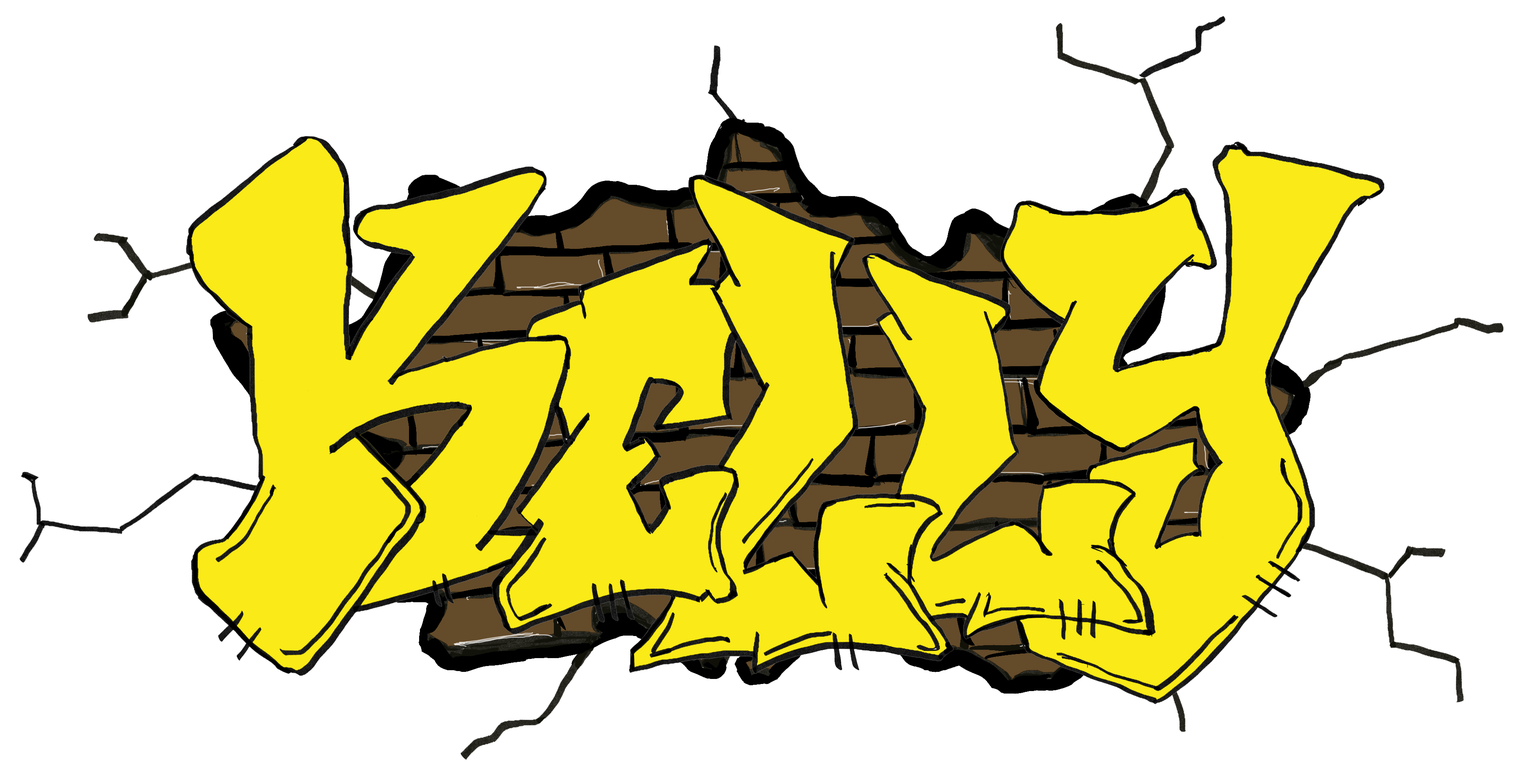
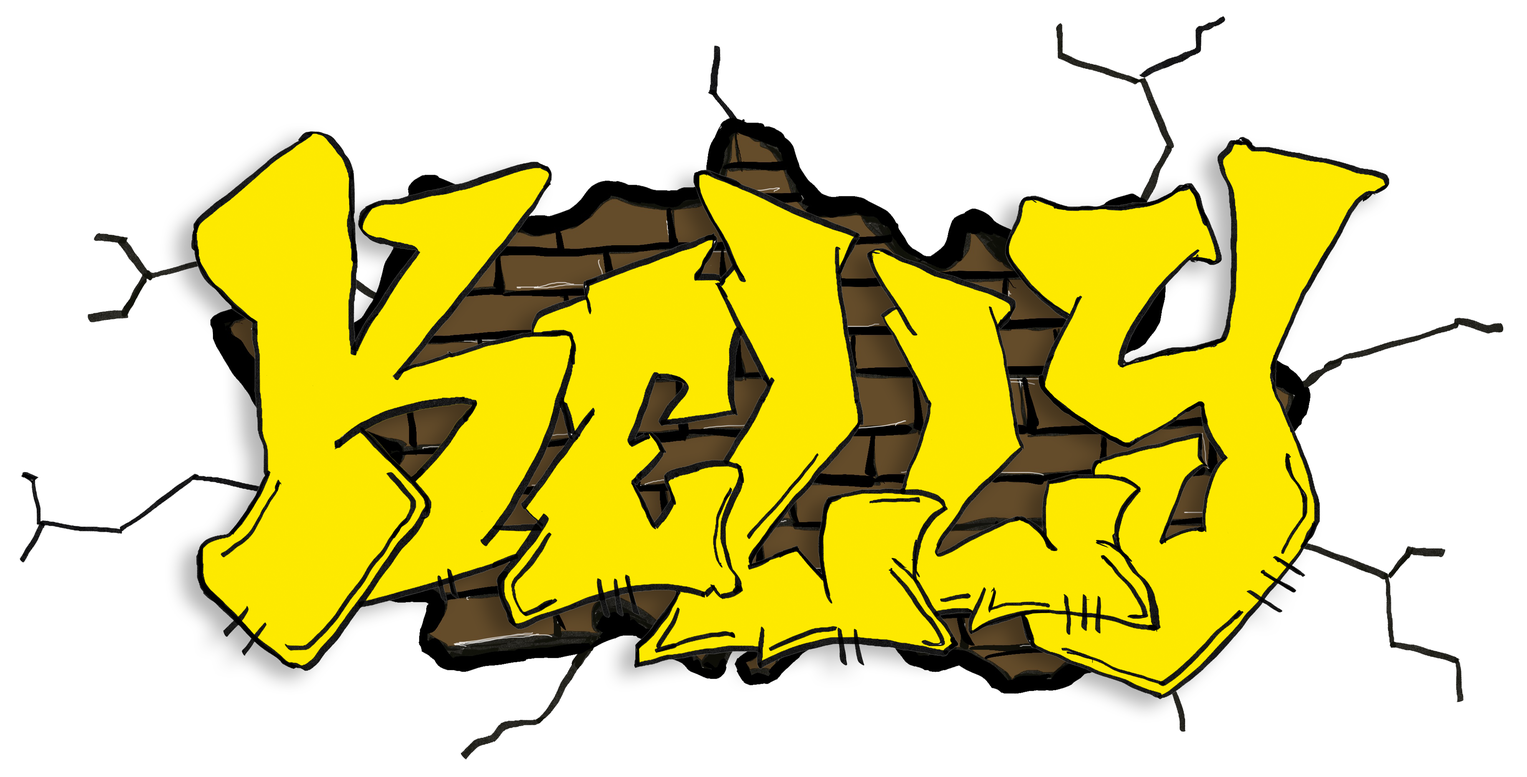
update to grafiti image. back to png for transparent bkgrd for exploding effect.

diff --git a/css/style.css b/css/style.css
@@ -1,1 +1,1 @@
-.main-content-container{display:flex;flex-direction:column;width:100vw;height:100vh;margin:0 auto}html,body{background:url(../img/Brickwall_bkgd.jpg);width:100vw;height:100vh;font-size:62.5%;font-family:Arial,Helvetica,sans-serif;margin:0px}*{padding:0;margin:0}*{padding:0;margin:0;box-sizing:border-box}input{font-size:100%}.centered{text-align:center}.main-content-container{display:flex;flex-direction:column;width:100vw;height:100vh;margin:0 auto}.nav-bar{display:flex;flex-direction:row;justify-content:center;position:fixed;z-index:1;width:100%;background-color:#000;padding:15px}.nav-items{display:inline-flex;flex-direction:row;justify-content:center;align-items:center}a{font-size:30px;text-decoration:none;color:#fff;width:300px;cursor:pointer}.nav-items .resume{color:#000;background-color:gold;text-align:center;padding:10px;width:15%;border-radius:5px}.nav-items a:hover{color:gold}.nav-items .resume:hover{color:#000}.nav-bar img{position:absolute;left:20px;top:5px;width:6%}@keyframes turn-icon-animation{0%{transform:scale(1)}25%{transform:scale(1.4)}100%{transform:scale(1)}}.blue-drip{animation:.6s ease-in-out turn-icon-animation}.hamburger{display:none}.closebtn{display:none}.sub-nav-content{display:none}.nav-items .mobile-projects{display:none}.hero{display:flex;flex-direction:row;justify-content:center}.left-content-container{display:flex;flex-direction:column;justify-content:center;width:80%}.intro{display:flex;flex-direction:row;justify-content:center}h1{margin-top:130px;font-size:40px;font-weight:bold;text-indent:50px}.kelly-graffiti-name-container{display:flex;justify-content:center}.kelly-graffiti-name-container img{width:85%}.job-description{display:flex;flex-direction:row;justify-content:center}@keyframes typing{from{width:0;color:blue}}.job-description h2{animation:typing 1.5s steps(51, end),blink-caret 12s step-end infinite alternate;overflow:hidden;width:46ch;white-space:nowrap}.animate{opacity:1;transform:translateX(0)}h2{font-size:40px;font-weight:bold;text-align:center;padding:40px}.right-content-container{background:url(../img/Kelly_Face_Img.jpg);background-repeat:no-repeat;background-size:contain;display:flex;flex-direction:column-reverse;width:20%;margin-top:30px}.job-notification-indicator{display:flex;flex-direction:row;justify-content:space-evenly;margin-bottom:0px;background-color:#000;padding:15px 15px 15px 15px}.indicator-light{padding:8px 8px;border-radius:50%;background-color:#7fff00;margin-bottom:25px;border:1px solid #000}#blink{animation:blink-animation 1s steps(2, start) infinite}@keyframes blink-animation{to{visibility:hidden}}h6{color:#fff;font-size:15px;margin-bottom:25px}#blink{opacity:1}.tablet-view{display:none}.kelly-face-img img{width:100%}.side-right-brick{display:none}.about-me-container{display:flex;flex-direction:column;justify-content:center;padding:80px}.about-me-title img{width:50%}.about-me p{font-size:30px;margin-bottom:2rem;background-color:#fff}.blog{color:blue;text-decoration:underline;font-size:30px;font-weight:bold}.fitness{display:flex;justify-content:flex-start;margin-bottom:20px;margin-top:50px}.frontend{display:flex;justify-content:flex-end;margin-top:20px}.scroll{opacity:0;transition:all .5s;transform:translateX(-100%)}.show{opacity:1;transform:translateX(0)}.side-left-brick{display:flex;flex-direction:row;justify-content:flex-start}.side-left-brick img{margin-top:-150px;margin-bottom:-100px;width:22%}.carousel-container-content{display:flex;flex-direction:column;width:100vw;height:100vh}.projects{display:flex;flex-direction:row;justify-content:center;margin:100px}h4{font-size:25px;text-align:center}.projects img{width:35%}.carousel-container{display:flex;flex-direction:row;align-self:center;scroll-snap-type:x proximity;scroll-behavior:smooth;width:2000px;margin-bottom:50px;overflow-x:scroll}.carousel{display:flex;flex-direction:row;justify-content:center}.carousel-column{display:none}.main-slide{display:flex;justify-content:center;align-items:center;scroll-snap-align:start;flex-shrink:0;width:245px;height:500px;background:#000;border:3px solid #000}.main-slide img{height:100%}.slide-show{display:flex;flex-direction:column;justify-content:flex-start}.slide-show h1{font-size:25px;text-align:center;text-indent:0}.slide-show p{font-size:15px;text-align:justify;padding:35px}.slide-show a{text-align:center}.cta-btn-case-study{color:#fff;background-color:#000;font-size:20px;font-weight:bold;padding:10px 25px 10px 25px}.arrow{display:flex;flex-direction:row;justify-content:center;align-items:center}.right-arrow{display:flex;flex-direction:row;justify-content:center;margin:0}.right-arrow img{width:30%;height:40%;cursor:pointer}.left-arrow{display:flex;flex-direction:row;justify-content:center}.left-arrow img{width:30%;height:40%;cursor:pointer}.indicator{display:flex;flex-direction:row;justify-content:center;align-content:flex-end;cursor:pointer}.btn img{height:25px;width:25px;margin:4px;transition:.3s}.indicator .btn:hover{background:gold}.inquiry-page-container{display:flex;flex-direction:column;align-items:center}.input-boxes{display:flex;flex-direction:column;justify-content:center;align-items:center}.contact{display:flex;flex-direction:row;justify-content:center;margin:100px}.contact img{width:35%;margin-top:50px}input{display:flex;flex-direction:column;justify-content:center;font-size:15px;padding:20px 20px 20px 20px;margin:15px 0px;border:1px solid #000;width:40rem;background-color:#fafad2}input[type=message]{padding:20px 20px 180px 20px}input[type=submit]{display:flex;flex-direction:row;justify-content:center;padding:20px 20px 20px 20px;color:#fff;background-color:#000;font-size:30px;font-weight:bold;text-align:center;margin-top:50px;margin-bottom:50px}.right-brick{display:flex;flex-direction:row;justify-content:flex-end}.right-brick img{margin-top:-300px;width:20%}footer{display:flex;flex-direction:row;justify-content:center;background-color:#000;padding:20px}.social-media-icons a{display:flex;flex-direction:row;justify-content:center}.social-media-icons a img{width:40px}@media(min-width: 1552px){.nav-bar{display:flex;flex-direction:row;justify-content:center;position:fixed;z-index:1;width:100%;background-color:#000;padding:15px}.nav-items{display:inline-flex;flex-direction:row;align-items:center}a{font-size:30px;text-decoration:none;color:#fff;width:300px;cursor:pointer}.nav-items .resume{color:#000;background-color:gold;text-align:center;padding:10px;width:15%;margin-left:100px;border-radius:5px}.nav-items a:hover{color:gold}.nav-bar img{width:6%}.dropdown .dropbtn{font-size:40px;margin-top:50px}.dropbtn>i{display:none}.dropdown .dropdown-content>a{display:none}h2{font-size:55px}.right-content-container{background-color:#000}.fitness{margin-top:100px}.carousel-container{scroll-snap-type:x mandatory;width:1400px}.slide-show p{font-size:15px;padding:35px;text-align:justify}.contact img{margin-top:50px}input[type=submit]{margin-bottom:150px}.right-brick{display:flex;flex-direction:row;justify-content:flex-end}.right-brick img{width:12%}}@media(min-width: 1025px)and (max-width: 1366px){.nav-items{display:inline-flex;flex-direction:row;justify-content:space-around;align-items:center}a{width:235px}.nav-items .resume{width:16%}.nav-bar img{width:8%}.right-content-container{margin-top:30px}.indicator-light{padding:8px 8px;border-radius:50%;background-color:#7fff00;margin-bottom:25px}h1{margin-top:130px;font-size:25px}h2{font-size:25px;font-weight:bold;text-align:center}.job-description h2{animation:typing 1.5s steps(51, end),blink-caret 12s step-end infinite alternate;overflow:hidden;width:48ch;white-space:nowrap}.kelly-face-img img{margin-top:50px;width:100%;height:auto}.face-overlay{position:absolute;top:0;bottom:0;height:auto;opacity:0;transition:opacity .5s ease}.carousel-container{scroll-snap-type:x mandatory;width:2450px}}@media screen and (max-width: 1024px){.hero{display:flex;flex-direction:column;justify-content:center}.nav-bar{justify-content:space-between;padding:24px}.nav-bar img{width:12%}.nav-items{display:flex;flex-direction:column;align-items:center;margin-top:60px}.nav-items a{text-align:center;font-size:40px;margin-top:50px}.nav-items .resume{color:#000;background-color:gold;text-align:center;padding:10px;width:20%;border-radius:5px}.hamburger{display:flex;flex-direction:column}.bar{width:64px;height:6px;background-color:#fff;margin:6px 0}.menu-overlay{height:100%;width:0;position:fixed;top:0;right:0;background-color:rgba(0,0,0,.9019607843);overflow-x:hidden;transition:.5s;z-index:1}.closebtn{display:flex;flex-direction:column;justify-content:flex-start;position:absolute;color:#fff;font-size:50px;top:0;right:50px;margin-top:3rem}.sub-nav-content{display:flex;flex-direction:column;justify-content:center;margin-top:-1rem}.sub-nav-content a{margin-top:2rem;text-align:center;font-size:25px;color:gold}.dropdown .dropbtn{font-size:40px;margin-top:5rem}.dropbtn i{display:none}.dropdown .dropdown-content a{display:none}.hero{margin-top:150px}.tablet-view{display:flex;flex-direction:row;align-self:center;width:42%;margin-top:70px;margin-bottom:0px}.job-notification-indicator{display:flex;flex-direction:row;justify-content:center;background-color:#fff}.indicator-light{display:flex;justify-content:center;align-items:center;border-radius:50%;padding:8px 8px;margin-right:8px}h6{font-size:15px;color:#000;text-wrap:nowrap}h1{margin-top:0;font-size:50px}.intro{margin-top:0px}.left-content-container{display:flex;flex-direction:column;justify-content:center;width:100%}.right-content-container{display:none}.kelly-graffiti-name-container{display:flex;flex-direction:row;justify-content:center}@keyframes turn-icon-animation{0%{transform:scale(1)}25%{transform:scale(1.4)}100%{transform:scale(1)}}.kelly-graffiti-name-container>img{animation:.6s ease-in-out turn-icon-animation;animation-delay:1.5s}@keyframes slidein{from{transform:translateX(-100%)}to{transform:translateX(0%)}}.job-description{display:flex;flex-direction:row;justify-content:center}h2{font-size:50px;color:#000}@keyframes typing{from{width:0;color:blue}}.job-description h2{animation:typing 1.5s steps(51, end),blink-caret 12s step-end infinite alternate;overflow:hidden;width:46ch;white-space:wrap}.kelly-face-img{display:none}.side-right-brick{display:flex;flex-direction:row;justify-content:flex-end}.side-right-brick img{width:30%;margin-bottom:-100px}.blog{font-size:30px}.about-me-title{margin-top:0rem}.about-me-title img{width:85%}.fitness{margin-top:10rem}.projects{margin:0}.projects>img{margin-top:20rem;margin-bottom:10rem;width:60%}.nav-items .mobile-projects{display:none}.nav-items .desktop-projects{display:flex;flex-direction:column;font-size:40px;width:30rem;text-decoration:none;text-align:center;color:#fff;cursor:pointer}.content-container{display:none}.carousel-container-content{padding:0}.carousel-container{scroll-snap-type:x mandatory;width:640px}.main-slide{height:600px;width:290px;overflow:hidden}.slide-show{display:flex;flex-direction:column;justify-content:flex-start}.slide-show>h4{font-size:35px;margin:0;margin-bottom:5rem;text-align:center}.slide-show>p{font-size:20px}.cta-btn-case-study{font-size:20px}.left-arrow>img{display:none}.right-arrow>img{display:none}.side-left-brick{display:flex}.side-left-brick>img{margin-top:-15rem;margin-bottom:-10rem;width:30%}.contact{margin:0}.contact>img{width:60%;margin-top:15rem;margin-bottom:10rem}input{padding:30px 30px 30px 30px}input[type=message]{padding:30px 30px 200px 30px}input[type=submit]{padding:30px 30px 30px 30px;margin-bottom:15rem}.right-brick>img{width:25%}}@media screen and (max-width: 844px){.projects>img{margin-top:20rem}.nav-items .desktop-projects{display:none}.nav-items .mobile-projects{display:flex;flex-direction:column;font-size:40px;width:30rem;text-decoration:none;text-align:center;color:#fff;cursor:pointer}.carousel-container-content{display:none}.indicator{display:none}.ds-card{display:flex;flex-direction:column;justify-content:center;align-items:center;background-color:#fff;border:1px solid #e9e9e9;box-shadow:rgba(0,0,0,.1019607843) 0px 4px 12px;margin-bottom:4rem}.content-container{display:flex;flex-direction:column;width:100vw;margin:auto}.content-header{display:flex;flex-direction:column}.carousel-column{display:flex;flex-direction:row}.tower-carousel-container{display:flex;flex-direction:row;justify-content:flex-start;align-items:flex-start;width:100vw;scroll-snap-type:x mandatory;overflow-x:scroll}.card-lg{min-width:45%;max-width:45%;margin:1rem}.card-lg-img_1{display:flex;flex-direction:column;justify-content:center;flex-basis:250px;max-height:200px;width:100%;color:#fff;background:url(../img/SB_Card_Stub.jpg);background-color:#000;background-size:cover}.card-lg-img_2{display:flex;flex-direction:column;justify-content:center;flex-basis:250px;max-height:200px;width:100%;color:#fff;background:url(../img/Fitness_Card_Stub.jpg);background-color:#000;background-size:cover}.card-lg-img_3{display:flex;flex-direction:column;justify-content:center;flex-basis:250px;max-height:200px;width:100%;color:#fff;background:url(../img/JT_Card_Stub.jpg);background-color:#000;background-size:cover}.card-lg-img_4{display:flex;flex-direction:column;justify-content:center;flex-basis:250px;max-height:200px;width:100%;color:#fff;background:url(../img/UI_stub.jpg);background-color:#000;background-size:cover}.card-lg-img_5{display:flex;flex-direction:column;justify-content:center;flex-basis:250px;max-height:200px;width:100%;color:#fff;background:url(../img/Extrahands_Stub.jpg);background-color:#000;background-size:cover}.card-lg-content{display:flex;flex-direction:column;justify-content:center;width:100%;height:100%;background-color:#fff;padding:2em 2.5em}p{font-size:15px;line-height:1.2;margin-bottom:1.5em}button{display:flex;justify-content:center;align-items:center;background-color:#000;color:#fff;padding:1rem 2rem;font-size:15px;font-weight:bold;border:none}.card-lg-content>a{display:flex;flex-direction:column;justify-content:center;width:100%}}@media screen and (max-width: 480px){.right-content-container{display:none}.nav-bar img{margin-top:5px;width:20%}.closebtn{font-size:40px}.nav-items a{font-size:30px}.sub-nav-content{margin-top:0}.sub-nav-content>a{font-size:20px}.bar{width:50px;height:4px;background-color:#fff;margin:6px 0}.nav-items .resume{width:36%}.hero{display:flex;flex-direction:column}.intro{display:flex;flex-direction:column}.tablet-view{display:flex;flex-direction:row;align-self:center}h1{font-size:25px;text-align:center;text-indent:0;margin-top:20px;animation:1s ease-in slidein}@keyframes turn-icon-animation{0%{transform:scale(1)}25%{transform:scale(1.4)}100%{transform:scale(1)}}.kelly-graffiti-name-container>img{animation:.6s ease-in-out turn-icon-animation;animation-delay:1.5s}@keyframes slidein{from{transform:translateX(-100%)}to{transform:translateX(0%)}}.job-description h2{animation:typing 2s steps(51, end),blink-caret 12s step-end infinite alternate;overflow:hidden;white-space:wrap}h2{font-size:25px}.side-right-brick{display:flex;flex-direction:row;justify-content:flex-end}.job-notification-indicator{margin-top:0}.indicator-light{margin-right:15px}.side-right-brick>img{width:40%;margin-top:2rem}.about-me-container{padding:3rem}.about-me-title>img{width:100%}.blog{font-size:20px}.about-me>p{font-size:20px}.fitness{margin-top:10rem}.side-left-brick>img{margin-top:-3rem;width:45%}.projects{margin-top:2rem}.projects>img{width:70%;margin-top:10rem;margin-bottom:5rem}.nav-items .desktop-projects{display:none}.nav-items .mobile-projects{display:flex;flex-direction:column;font-size:30px;width:30rem;text-decoration:none;text-align:center;color:#fff;cursor:pointer}.carousel-container-content{display:none}.indicator{display:none}.ds-card{display:flex;flex-direction:column;justify-content:center;align-items:center;background-color:#fff;border:1px solid #e9e9e9;box-shadow:rgba(0,0,0,.1019607843) 0px 4px 12px;margin-bottom:4rem}.content-container{display:flex;flex-direction:column;width:100vw;margin:auto}.content-header{display:flex;flex-direction:column}.carousel-column{display:flex;flex-direction:row}.tower-carousel-container{display:flex;flex-direction:row;justify-content:flex-start;align-items:flex-start;width:100vw;scroll-snap-type:x mandatory;overflow-x:scroll}.card-lg{min-width:75%;max-width:75%;margin:1rem}.card-lg-img_1{display:flex;flex-direction:column;justify-content:center;flex-basis:250px;max-height:200px;width:100%;color:#fff;background:url(../img/SB_Card_Stub.jpg);background-color:#000;background-size:cover}.card-lg-img_2{display:flex;flex-direction:column;justify-content:center;flex-basis:250px;max-height:200px;width:100%;color:#fff;background:url(../img/Fitness_Card_Stub.jpg);background-color:#000;background-size:cover}.card-lg-img_3{display:flex;flex-direction:column;justify-content:center;flex-basis:250px;max-height:200px;width:100%;color:#fff;background:url(../img/JT_Card_Stub.jpg);background-color:#000;background-size:cover}.card-lg-img_4{display:flex;flex-direction:column;justify-content:center;flex-basis:250px;max-height:200px;width:100%;color:#fff;background:url(../img/UI_stub.jpg);background-color:#000;background-size:cover}.card-lg-img_5{display:flex;flex-direction:column;justify-content:center;flex-basis:250px;max-height:200px;width:100%;color:#fff;background:url(../img/Extrahands_Stub.jpg);background-color:#000;background-size:cover}.card-lg-content{display:flex;flex-direction:column;justify-content:center;flex-grow:1;width:100%;height:100%;background-color:#fff;padding:2em 2.5em}h5{font-size:20px;margin-bottom:2rem}p{font-size:15px;line-height:1.2;margin-bottom:1.5em}button{display:flex;justify-content:center;align-items:center;background-color:#000;color:#fff;padding:1rem 2rem;font-size:15px;font-weight:bold;border:none}.card-lg-content>a{display:flex;flex-direction:column;justify-content:center;width:100%}.contact{padding:0;margin:0}.contact>img{width:70%;margin-top:12rem;margin-bottom:5rem}input{width:35rem}input[type=submit]{margin-bottom:15rem}.right-brick>img{display:flex;margin-top:-12rem;margin-bottom:2rem;width:20%}.social-media-icons>a>img{width:25px}}/*# sourceMappingURL=style.css.map */
+.main-content-container{display:flex;flex-direction:column;width:100vw;height:100vh;margin:0 auto}html,body{background:url(../img/Brickwall_bkgd.jpg);width:100vw;height:100vh;font-size:62.5%;font-family:Arial,Helvetica,sans-serif;margin:0px}*{padding:0;margin:0}*{padding:0;margin:0;box-sizing:border-box}input{font-size:100%}.centered{text-align:center}.main-content-container{display:flex;flex-direction:column;width:100vw;height:100vh;margin:0 auto}.nav-bar{display:flex;flex-direction:row;justify-content:center;position:fixed;z-index:1;width:100%;background-color:#000;padding:15px}.nav-items{display:inline-flex;flex-direction:row;justify-content:center;align-items:center}a{font-size:30px;text-decoration:none;color:#fff;width:300px;cursor:pointer}.nav-items .resume{color:#000;background-color:gold;text-align:center;padding:10px;width:15%;border-radius:5px}.nav-items a:hover{color:gold}.nav-items .resume:hover{color:#000}.nav-bar img{position:absolute;left:20px;top:5px;width:6%}.hamburger{display:none}.closebtn{display:none}.sub-nav-content{display:none}.nav-items .mobile-projects{display:none}.hero{display:flex;flex-direction:row;justify-content:center}.left-content-container{display:flex;flex-direction:column;justify-content:center;width:80%}.intro{display:flex;flex-direction:row;justify-content:center}h1{margin-top:130px;font-size:40px;font-weight:bold;text-indent:50px}.kelly-graffiti-name-container{display:flex;justify-content:center}.kelly-graffiti-name-container img{width:85%}@keyframes turn-icon-animation{0%{transform:scale(1)}25%{transform:scale(1.4)}100%{transform:scale(1)}}.kelly-graffiti-name-container img{animation:.6s ease-in-out turn-icon-animation;animation-delay:1.5s}.job-description{display:flex;flex-direction:row;justify-content:center}@keyframes typing{from{width:0;color:blue}}.job-description h2{animation:typing 1.5s steps(51, end),blink-caret 12s step-end infinite alternate;overflow:hidden;width:46ch;white-space:nowrap}.animate{opacity:1;transform:translateX(0)}h2{font-size:40px;font-weight:bold;text-align:center;padding:40px}.right-content-container{background:url(../img/Kelly_Face_Img.jpg);background-repeat:no-repeat;background-size:contain;display:flex;flex-direction:column-reverse;width:20%;margin-top:30px}.job-notification-indicator{display:flex;flex-direction:row;justify-content:space-evenly;margin-bottom:0px;background-color:#000;padding:15px 15px 15px 15px}.indicator-light{padding:8px 8px;border-radius:50%;background-color:#7fff00;margin-bottom:25px;border:1px solid #000}#blink{animation:blink-animation 1s steps(2, start) infinite}@keyframes blink-animation{to{visibility:hidden}}h6{color:#fff;font-size:15px;margin-bottom:25px}#blink{opacity:1}.tablet-view{display:none}.kelly-face-img img{width:100%}.side-right-brick{display:none}.about-me-container{display:flex;flex-direction:column;justify-content:center;padding:80px}.about-me-title img{width:50%}.about-me p{font-size:30px;margin-bottom:2rem;background-color:#fff}.blog{color:blue;text-decoration:underline;font-size:30px;font-weight:bold}.fitness{display:flex;justify-content:flex-start;margin-bottom:20px;margin-top:50px}.frontend{display:flex;justify-content:flex-end;margin-top:20px}.scroll{opacity:0;transition:all .5s;transform:translateX(-100%)}.show{opacity:1;transform:translateX(0)}.side-left-brick{display:flex;flex-direction:row;justify-content:flex-start}.side-left-brick img{margin-top:-150px;margin-bottom:-100px;width:22%}.carousel-container-content{display:flex;flex-direction:column;width:100vw;height:100vh}.projects{display:flex;flex-direction:row;justify-content:center;margin:100px}h4{font-size:25px;text-align:center}.projects img{width:35%}.carousel-container{display:flex;flex-direction:row;align-self:center;scroll-snap-type:x proximity;scroll-behavior:smooth;width:2000px;margin-bottom:50px;overflow-x:scroll}.carousel{display:flex;flex-direction:row;justify-content:center}.carousel-column{display:none}.main-slide{display:flex;justify-content:center;align-items:center;scroll-snap-align:start;flex-shrink:0;width:245px;height:500px;background:#000;border:3px solid #000}.main-slide img{height:100%}.slide-show{display:flex;flex-direction:column;justify-content:flex-start}.slide-show h1{font-size:25px;text-align:center;text-indent:0}.slide-show p{font-size:15px;text-align:justify;padding:35px}.slide-show a{text-align:center}.cta-btn-case-study{color:#fff;background-color:#000;font-size:20px;font-weight:bold;padding:10px 25px 10px 25px}.arrow{display:flex;flex-direction:row;justify-content:center;align-items:center}.right-arrow{display:flex;flex-direction:row;justify-content:center;margin:0}.right-arrow img{width:30%;height:40%;cursor:pointer}.left-arrow{display:flex;flex-direction:row;justify-content:center}.left-arrow img{width:30%;height:40%;cursor:pointer}.indicator{display:flex;flex-direction:row;justify-content:center;align-content:flex-end;cursor:pointer}.btn img{height:25px;width:25px;margin:4px;transition:.3s}.indicator .btn:hover{background:gold}.inquiry-page-container{display:flex;flex-direction:column;align-items:center}.input-boxes{display:flex;flex-direction:column;justify-content:center;align-items:center}.contact{display:flex;flex-direction:row;justify-content:center;margin:100px}.contact img{width:35%;margin-top:50px}input{display:flex;flex-direction:column;justify-content:center;font-size:15px;padding:20px 20px 20px 20px;margin:15px 0px;border:1px solid #000;width:40rem;background-color:#fafad2}input[type=message]{padding:20px 20px 180px 20px}input[type=submit]{display:flex;flex-direction:row;justify-content:center;padding:20px 20px 20px 20px;color:#fff;background-color:#000;font-size:30px;font-weight:bold;text-align:center;margin-top:50px;margin-bottom:50px}.right-brick{display:flex;flex-direction:row;justify-content:flex-end}.right-brick img{margin-top:-300px;width:20%}footer{display:flex;flex-direction:row;justify-content:center;background-color:#000;padding:20px}.social-media-icons a{display:flex;flex-direction:row;justify-content:center}.social-media-icons a img{width:40px}@media(min-width: 1552px){.nav-bar{display:flex;flex-direction:row;justify-content:center;position:fixed;z-index:1;width:100%;background-color:#000;padding:15px}.nav-items{display:inline-flex;flex-direction:row;align-items:center}a{font-size:30px;text-decoration:none;color:#fff;width:300px;cursor:pointer}.nav-items .resume{color:#000;background-color:gold;text-align:center;padding:10px;width:15%;margin-left:100px;border-radius:5px}.nav-items a:hover{color:gold}.nav-bar img{width:6%}.dropdown .dropbtn{font-size:40px;margin-top:50px}.dropbtn>i{display:none}.dropdown .dropdown-content>a{display:none}h2{font-size:55px}.right-content-container{background-color:#000}.fitness{margin-top:100px}.carousel-container{scroll-snap-type:x mandatory;width:1400px}.slide-show p{font-size:15px;padding:35px;text-align:justify}.contact img{margin-top:50px}input[type=submit]{margin-bottom:150px}.right-brick{display:flex;flex-direction:row;justify-content:flex-end}.right-brick img{width:12%}}@media(min-width: 1025px)and (max-width: 1366px){.nav-items{display:inline-flex;flex-direction:row;justify-content:space-around;align-items:center}a{width:235px}.nav-items .resume{width:16%}.nav-bar img{width:8%}.right-content-container{margin-top:30px}.indicator-light{padding:8px 8px;border-radius:50%;background-color:#7fff00;margin-bottom:25px}h1{margin-top:130px;font-size:25px}h2{font-size:25px;font-weight:bold;text-align:center}.job-description h2{animation:typing 1.5s steps(51, end),blink-caret 12s step-end infinite alternate;overflow:hidden;width:48ch;white-space:nowrap}.kelly-face-img img{margin-top:50px;width:100%;height:auto}.face-overlay{position:absolute;top:0;bottom:0;height:auto;opacity:0;transition:opacity .5s ease}.carousel-container{scroll-snap-type:x mandatory;width:2450px}}@media screen and (max-width: 1024px){.hero{display:flex;flex-direction:column;justify-content:center}.nav-bar{justify-content:space-between;padding:24px}.nav-bar img{width:12%}.nav-items{display:flex;flex-direction:column;align-items:center;margin-top:60px}.nav-items a{text-align:center;font-size:40px;margin-top:50px}.nav-items .resume{color:#000;background-color:gold;text-align:center;padding:10px;width:20%;border-radius:5px}.hamburger{display:flex;flex-direction:column}.bar{width:64px;height:6px;background-color:#fff;margin:6px 0}.menu-overlay{height:100%;width:0;position:fixed;top:0;right:0;background-color:rgba(0,0,0,.9019607843);overflow-x:hidden;transition:.5s;z-index:1}.closebtn{display:flex;flex-direction:column;justify-content:flex-start;position:absolute;color:#fff;font-size:50px;top:0;right:50px;margin-top:3rem}.sub-nav-content{display:flex;flex-direction:column;justify-content:center;margin-top:-1rem}.sub-nav-content a{margin-top:2rem;text-align:center;font-size:25px;color:gold}.dropdown .dropbtn{font-size:40px;margin-top:5rem}.dropbtn i{display:none}.dropdown .dropdown-content a{display:none}.hero{margin-top:150px}.tablet-view{display:flex;flex-direction:row;align-self:center;width:42%;margin-top:70px;margin-bottom:0px}.job-notification-indicator{display:flex;flex-direction:row;justify-content:center;background-color:#fff}.indicator-light{display:flex;justify-content:center;align-items:center;border-radius:50%;padding:8px 8px;margin-right:8px}h6{font-size:15px;color:#000;text-wrap:nowrap}h1{margin-top:0;font-size:50px}.intro{margin-top:0px}.left-content-container{display:flex;flex-direction:column;justify-content:center;width:100%}.right-content-container{display:none}.kelly-graffiti-name-container{display:flex;flex-direction:row;justify-content:center}@keyframes turn-icon-animation{0%{transform:scale(1)}25%{transform:scale(1.4)}100%{transform:scale(1)}}.kelly-graffiti-name-container>img{animation:.6s ease-in-out turn-icon-animation;animation-delay:1.5s}@keyframes slidein{from{transform:translateX(-100%)}to{transform:translateX(0%)}}.job-description{display:flex;flex-direction:row;justify-content:center}h2{font-size:50px;color:#000}@keyframes typing{from{width:0;color:blue}}.job-description h2{animation:typing 1.5s steps(51, end),blink-caret 12s step-end infinite alternate;overflow:hidden;width:46ch;white-space:wrap}.kelly-face-img{display:none}.side-right-brick{display:flex;flex-direction:row;justify-content:flex-end}.side-right-brick img{width:30%;margin-bottom:-100px}.blog{font-size:30px}.about-me-title{margin-top:0rem}.about-me-title img{width:85%}.fitness{margin-top:10rem}.projects{margin:0}.projects>img{margin-top:20rem;margin-bottom:10rem;width:60%}.nav-items .mobile-projects{display:none}.nav-items .desktop-projects{display:flex;flex-direction:column;font-size:40px;width:30rem;text-decoration:none;text-align:center;color:#fff;cursor:pointer}.content-container{display:none}.carousel-container-content{padding:0}.carousel-container{scroll-snap-type:x mandatory;width:640px}.main-slide{height:600px;width:290px;overflow:hidden}.slide-show{display:flex;flex-direction:column;justify-content:flex-start}.slide-show>h4{font-size:35px;margin:0;margin-bottom:5rem;text-align:center}.slide-show>p{font-size:20px}.cta-btn-case-study{font-size:20px}.left-arrow>img{display:none}.right-arrow>img{display:none}.side-left-brick{display:flex}.side-left-brick>img{margin-top:-15rem;margin-bottom:-10rem;width:30%}.contact{margin:0}.contact>img{width:60%;margin-top:15rem;margin-bottom:10rem}input{padding:30px 30px 30px 30px}input[type=message]{padding:30px 30px 200px 30px}input[type=submit]{padding:30px 30px 30px 30px;margin-bottom:15rem}.right-brick>img{width:25%}}@media screen and (max-width: 844px){.projects>img{margin-top:20rem}.nav-items .desktop-projects{display:none}.nav-items .mobile-projects{display:flex;flex-direction:column;font-size:40px;width:30rem;text-decoration:none;text-align:center;color:#fff;cursor:pointer}.carousel-container-content{display:none}.indicator{display:none}.ds-card{display:flex;flex-direction:column;justify-content:center;align-items:center;background-color:#fff;border:1px solid #e9e9e9;box-shadow:rgba(0,0,0,.1019607843) 0px 4px 12px;margin-bottom:4rem}.content-container{display:flex;flex-direction:column;width:100vw;margin:auto}.content-header{display:flex;flex-direction:column}.carousel-column{display:flex;flex-direction:row}.tower-carousel-container{display:flex;flex-direction:row;justify-content:flex-start;align-items:flex-start;width:100vw;scroll-snap-type:x mandatory;overflow-x:scroll}.card-lg{min-width:45%;max-width:45%;margin:1rem}.card-lg-img_1{display:flex;flex-direction:column;justify-content:center;flex-basis:250px;max-height:200px;width:100%;color:#fff;background:url(../img/SB_Card_Stub.jpg);background-color:#000;background-size:cover}.card-lg-img_2{display:flex;flex-direction:column;justify-content:center;flex-basis:250px;max-height:200px;width:100%;color:#fff;background:url(../img/Fitness_Card_Stub.jpg);background-color:#000;background-size:cover}.card-lg-img_3{display:flex;flex-direction:column;justify-content:center;flex-basis:250px;max-height:200px;width:100%;color:#fff;background:url(../img/JT_Card_Stub.jpg);background-color:#000;background-size:cover}.card-lg-img_4{display:flex;flex-direction:column;justify-content:center;flex-basis:250px;max-height:200px;width:100%;color:#fff;background:url(../img/UI_stub.jpg);background-color:#000;background-size:cover}.card-lg-img_5{display:flex;flex-direction:column;justify-content:center;flex-basis:250px;max-height:200px;width:100%;color:#fff;background:url(../img/Extrahands_Stub.jpg);background-color:#000;background-size:cover}.card-lg-content{display:flex;flex-direction:column;justify-content:center;width:100%;height:100%;background-color:#fff;padding:2em 2.5em}p{font-size:15px;line-height:1.2;margin-bottom:1.5em}button{display:flex;justify-content:center;align-items:center;background-color:#000;color:#fff;padding:1rem 2rem;font-size:15px;font-weight:bold;border:none}.card-lg-content>a{display:flex;flex-direction:column;justify-content:center;width:100%}}@media screen and (max-width: 480px){.right-content-container{display:none}.nav-bar img{margin-top:5px;width:20%}.closebtn{font-size:40px}.nav-items a{font-size:30px}.sub-nav-content{margin-top:0}.sub-nav-content>a{font-size:20px}.bar{width:50px;height:4px;background-color:#fff;margin:6px 0}.nav-items .resume{width:36%}.hero{display:flex;flex-direction:column}.intro{display:flex;flex-direction:column}.tablet-view{display:flex;flex-direction:row;align-self:center}h1{font-size:25px;text-align:center;text-indent:0;margin-top:20px;animation:1s ease-in slidein}@keyframes turn-icon-animation{0%{transform:scale(1)}25%{transform:scale(1.4)}100%{transform:scale(1)}}.kelly-graffiti-name-container>img{animation:.6s ease-in-out turn-icon-animation;animation-delay:1.5s}@keyframes slidein{from{transform:translateX(-100%)}to{transform:translateX(0%)}}.job-description h2{animation:typing 2s steps(51, end),blink-caret 12s step-end infinite alternate;overflow:hidden;white-space:wrap}h2{font-size:25px}.side-right-brick{display:flex;flex-direction:row;justify-content:flex-end}.job-notification-indicator{margin-top:0}.indicator-light{margin-right:15px}.side-right-brick>img{width:40%;margin-top:2rem}.about-me-container{padding:3rem}.about-me-title>img{width:100%}.blog{font-size:20px}.about-me>p{font-size:20px}.fitness{margin-top:10rem}.side-left-brick>img{margin-top:-3rem;width:45%}.projects{margin-top:2rem}.projects>img{width:70%;margin-top:10rem;margin-bottom:5rem}.nav-items .desktop-projects{display:none}.nav-items .mobile-projects{display:flex;flex-direction:column;font-size:30px;width:30rem;text-decoration:none;text-align:center;color:#fff;cursor:pointer}.carousel-container-content{display:none}.indicator{display:none}.ds-card{display:flex;flex-direction:column;justify-content:center;align-items:center;background-color:#fff;border:1px solid #e9e9e9;box-shadow:rgba(0,0,0,.1019607843) 0px 4px 12px;margin-bottom:4rem}.content-container{display:flex;flex-direction:column;width:100vw;margin:auto}.content-header{display:flex;flex-direction:column}.carousel-column{display:flex;flex-direction:row}.tower-carousel-container{display:flex;flex-direction:row;justify-content:flex-start;align-items:flex-start;width:100vw;scroll-snap-type:x mandatory;overflow-x:scroll}.card-lg{min-width:75%;max-width:75%;margin:1rem}.card-lg-img_1{display:flex;flex-direction:column;justify-content:center;flex-basis:250px;max-height:200px;width:100%;color:#fff;background:url(../img/SB_Card_Stub.jpg);background-color:#000;background-size:cover}.card-lg-img_2{display:flex;flex-direction:column;justify-content:center;flex-basis:250px;max-height:200px;width:100%;color:#fff;background:url(../img/Fitness_Card_Stub.jpg);background-color:#000;background-size:cover}.card-lg-img_3{display:flex;flex-direction:column;justify-content:center;flex-basis:250px;max-height:200px;width:100%;color:#fff;background:url(../img/JT_Card_Stub.jpg);background-color:#000;background-size:cover}.card-lg-img_4{display:flex;flex-direction:column;justify-content:center;flex-basis:250px;max-height:200px;width:100%;color:#fff;background:url(../img/UI_stub.jpg);background-color:#000;background-size:cover}.card-lg-img_5{display:flex;flex-direction:column;justify-content:center;flex-basis:250px;max-height:200px;width:100%;color:#fff;background:url(../img/Extrahands_Stub.jpg);background-color:#000;background-size:cover}.card-lg-content{display:flex;flex-direction:column;justify-content:center;flex-grow:1;width:100%;height:100%;background-color:#fff;padding:2em 2.5em}h5{font-size:20px;margin-bottom:2rem}p{font-size:15px;line-height:1.2;margin-bottom:1.5em}button{display:flex;justify-content:center;align-items:center;background-color:#000;color:#fff;padding:1rem 2rem;font-size:15px;font-weight:bold;border:none}.card-lg-content>a{display:flex;flex-direction:column;justify-content:center;width:100%}.contact{padding:0;margin:0}.contact>img{width:70%;margin-top:12rem;margin-bottom:5rem}input{width:35rem}input[type=submit]{margin-bottom:15rem}.right-brick>img{display:flex;margin-top:-12rem;margin-bottom:2rem;width:20%}.social-media-icons>a>img{width:25px}}/*# sourceMappingURL=style.css.map */

diff --git a/sass/style.scss b/sass/style.scss
@@ -92,21 +92,9 @@ a {
   width: 6%;
 }
 
-@keyframes turn-icon-animation {
-  0% {
-    transform: scale(1);
-  }
-  25% {
-    transform: scale(1.4);
-  }
-  100% {
-    transform: scale(1);
-  }
-}
-
-.blue-drip {
-  animation: 0.6s ease-in-out turn-icon-animation;
-}
+// .blue-drip {
+//   animation: 0.6s ease-in-out turn-icon-animation;
+// }
 
 .hamburger {
   display: none;
@@ -158,6 +146,23 @@ h1 {
 
 .kelly-graffiti-name-container img {
   width: 85%;
+}
+
+@keyframes turn-icon-animation {
+  0% {
+    transform: scale(1);
+  }
+  25% {
+    transform: scale(1.4);
+  }
+  100% {
+    transform: scale(1);
+  }
+}
+
+.kelly-graffiti-name-container img {
+  animation: 0.6s ease-in-out turn-icon-animation;
+  animation-delay: 1.5s;
 }
 
 .job-description {

diff --git a/index.html b/index.html
@@ -33,6 +33,7 @@
             <!-- <div class="left-upper-corner-brick">
                 <img src="img/Upper_Left_Corner_Broken_Brick.png" alt="Brick">
             </div> -->
+            
             <a href="index.html#main"><img src="img/Blue_Drip.png" alt="Blue Drip"></a>
 
             <div class="nav-menu">
@@ -77,7 +78,7 @@
                 </div>
 
                 <div class="kelly-graffiti-name-container">
-                    <img src="img/Hero_Broken_Brick.jpg" alt="Brick">
+                    <img src="img/Hero_Broken_Brick.png" alt="Brick">
                 </div>
 
                 <div class="job-description">
